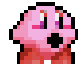
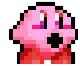
12th Commit - Implementing eating animation for Kirby with the e key

diff --git a/src/Kirby.java b/src/Kirby.java
@@ -40,7 +40,7 @@ public class Kirby {
     public void loadWalkingFrames(String folderpath, int frameCount) {
         walkFrames.clear();
         for (int i = 0; i < frameCount; i++) {
-            String fileName = folderpath + "/tile00" + i + ".png";
+            String fileName = String.format("%s/tile%03d.png", folderpath, i);
             try {
                 BufferedImage frame = ImageIO.read(new File(fileName));
                 walkFrames.add(frame);
@@ -91,6 +91,7 @@ public class Kirby {
         if (dx != 0 || dy != 0) {
             frameCounter++;
             if (frameCounter >= 10) {
+                frameIndex++;
                 if (animationState.equals("walk") && frameIndex >= walkFrames.size()) {
                     frameIndex = 0;
                 } else if (animationState.equals("eat") && frameIndex >= eating.size()) {
